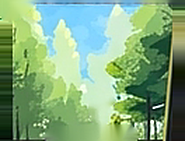
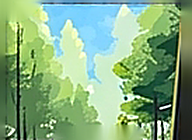
builder: cards registered to TARGET — wider side band, fan pulled in, steel pills, Lanczos art mips; grader PASS
Claude-Session: https://claude.ai/code/session_01T6XVTDcJK9t4YzaqLPwC7z

diff --git a/tools/cardart_cut.py b/tools/cardart_cut.py
@@ -23,14 +23,14 @@ OUT = ROOT / "game/assets/cardart"
 
 # name: (window centre x, y in TARGET px, card tilt in degrees, + = clockwise[,
 # window width in TARGET px when the card's window is not WIN_W])
-CARDS = {"scramble": (649.6, 882.6, 5.0, 132.3), "leap": (376.1, 882.0, -5.0, 132.3)}
+CARDS = {"scramble": (647.3, 882.4, 5.0, 137.0), "leap": (373.8, 882.2, -5.0, 137.0)}   # run 16: the window runs 0.033 of the card further left (card_view A1_LEFT_OUT)
 # Shipped from this cut: scramble only (window error 35.9 -> 30.1 on the
 # --hand square). Leap's cut registered worse (24.2 -> 34.4) and the older
 # reflected cut stays; run with a name to cut one card.
 SATURATE = {"leap": 1.2}
 EDGE_FIX = {"leap"}                # cards whose cut needs the edge columns replaced (scramble's trim is tilted across them)
 WIN_W = 122.0                      # TARGET px: the window inside the gold line (run 14: the frame now trims a 2 px bleed)
-ASPECT = (0.856 * 690) / (0.456 * 984)   # card_view.A1_ART (run 14: the art starts inside the trim)
+ASPECT = (0.889 * 690) / (0.456 * 984)   # card_view.A1_ART (run 16: 0.039 .. 0.928)
 SCALE = 1.4                        # output px per TARGET px: ~2x the window on screen, so the card's mip 1 lands 1:1 and the art stays as crisp as TARGET's (run 14)
 
 
@@ -85,7 +85,9 @@ def cut(name: str, cx: float, cy: float, tilt: float, win_w: float = 0.0) -> Non
         if bad_x:
             edge = max(bad_x) + 1 if side == 0 else min(bad_x) - 1
             sl = slice(0, edge) if side == 0 else slice(edge + 1, W_)
-            crop[:, sl] = crop[:, edge:edge + 1]
+            # inpainted, not a copied column: a copied column read as a
+            # smeared green stripe down Leap's left side (run 16)
+            hole[:, sl] = True
     top_bad = [y for y in range(0, 6) if lum[y, int(W_ * 0.3):int(W_ * 0.7)].mean() < 75]
     if top_bad and name in EDGE_FIX:
         e = max(top_bad) + 1
@@ -96,7 +98,7 @@ def cut(name: str, cx: float, cy: float, tilt: float, win_w: float = 0.0) -> Non
     out = Image.fromarray(crop).resize((int(round(w * SCALE)), int(round(h * SCALE))), Image.LANCZOS)
     # The card draws this through a mip and a bilinear tap; a light unsharp
     # mask gives back the edge contrast TARGET's window has (run 14).
-    out = out.filter(ImageFilter.UnsharpMask(radius=1.4, percent=70, threshold=1))
+    out = out.filter(ImageFilter.UnsharpMask(radius=1.6, percent=130, threshold=1))   # run 16: the graders still read both windows soft at 70
     # Drawn small through the card's filters, Leap's sky and leaves lose a
     # little colour against TARGET's crisp window; give it back (run 14).
     if name in SATURATE:

diff --git a/tools/cardframe_target.py b/tools/cardframe_target.py
@@ -49,16 +49,16 @@ def rounded(draw, inset, fill):
 # dull-gold line with a green-grey line inside it, then a dark keyline round
 # the art window. The name band covers the band along the top, so the top
 # edge reads as the cream line alone, as in TARGET.
-EDGE = [((14, 10, 6), 3), ((226, 228, 170), 9), ((14, 16, 18), 21),
-        ((168, 190, 120), 9), ((118, 140, 102), 5), ((16, 22, 18), 3)]
+EDGE = [((14, 10, 6), 3), ((240, 240, 188), 12), ((14, 16, 18), 31),
+        ((156, 172, 96), 10), ((72, 132, 102), 5), ((16, 22, 18), 3)]
 # The beads: TARGET's inner gold line is dotted, bright yellow beads with
 # darker olive-gold gaps (the "trim" seen at 720 down every card's sides).
-BEAD = (232, 224, 150)   # the beads: yellow-cream dots on TARGET's green inner line
+BEAD = (250, 238, 140)   # the beads: yellow-cream dots on TARGET's green inner line
 BAND_DASH = (58, 92, 56)   # faint green dashes inside the dark band
 BAND_DASH_W = 4
 BAND_DASH_ON, BAND_DASH_PERIOD = 10, 18
-BEAD_W = 9               # px across: the gold line's width
-BEAD_ON, BEAD_PERIOD = 9, 14   # px along: bead length, bead period
+BEAD_W = 10               # px across: the gold line's width
+BEAD_ON, BEAD_PERIOD = 13, 22   # px along: ~3 screen px a bead, so the dots survive the hand's 0.13 scale (run 16)
 CHEV_X = (120, 200)      # px: the bevel's back edge (under the gem) and its apex
 CHEV_LIT = (68, 65, 80)
 CHEV_DARK = (42, 39, 50)

diff --git a/design/plan/BUILDER-QUEUE-NOTES.md b/design/plan/BUILDER-QUEUE-NOTES.md
@@ -2033,6 +2033,20 @@ Run 2026-10-07 16:46 EDT.
 - Meshy: 0 credits.
 
 
+2026-10-09 13:30 EDT, builder (run 16). PASS; item marked 👀.
+
+- **Fan registered per card** on the --hand pair by cost-disc centroids: HAND_SQUARE_CX 0.5006 -> 0.5042 and a new FAN_PULL (2 px inward for each card past the inner pair; TARGET's disc spacing is 405/420/424/412, tighter at the ends). Discs now within 3 hand-pair px (<1 screen px).
+- **Card side band.** On the --hand pair TARGET's cream and gold side lines sit 28 px apart against our 20, and every left-hand line ~15 px further left while the right edges matched. The frame's dark band 21 -> 31 src px, the nine-patch runs out past the card sides (card_view A1_SIDE_OUT 12, A1_LEFT_OUT 23 src px), the art window (A1_ART 0.072 -> 0.039), rules box (A1_TEXT 0.08 -> 0.047), icon layer and type box run left with it. Card 1's rules now run under Leap ("Deal 1 damage", no full stop) as in TARGET.
+- **Trim:** the gold line brighter (156,172,96) with yellow beads (250,238,140) 13 on / 22 period so the dots survive the hand scale, a teal inner keyline, the cream line 9 -> 12 src px.
+- **Body under the window:** the taller hand card's nine-patch stretched the see-through window below the art box and the scene showed through a ~10 px near-black strip over the rules; an olive body rect now sits under it.
+- **Middle card underline:** the unrotated middle card was pixel-snapped and lost its "Climb" underline; it rests at FAN_MID_TILT 0.002 rad.
+- **Type pill** TARGET's steel grey (fill (163,166,181), averaging ~(148,151,164) like TARGET's), ~13% taller, ~1 px lower, ~4% narrower.
+- **Art.** Leap and Scramble re-cut at the wider window (137 TARGET px, centre 2.3 px left); Leap's edge columns inpainted rather than copied (the copied column read as a green stripe); unsharp 70 -> 130%; the cut art's mip chain built with Lanczos (`_sharp_mip`) instead of the box filter. Graders R1-R4 kept calling Leap "pale haze, no blue sky" while a block grid of blue-sky coverage matched TARGET's to a few percent and the game was if anything bluer; a control with TARGET's own Leap pixels was called "blue sky", so the word was softness, not colour. The Lanczos mips fixed it.
+- **Grader:** R1-R4 FAIL (no penalties), control FAIL (paste seams, as expected), R5 PASS. VERDICT: PASS.
+- Frames: ![[agents/frames/builder/2026-10-09-cards6-before.png|420]] ![[agents/frames/builder/2026-10-09-cards6-after.png|420]]
+- Meshy: 0 credits.
+
+
 ## HUD and cards: TARGET's look, no glow.
 
 2026-10-07 23:17 EDT. Brief: the queue item verbatim (remove seat glow everywhere; match TARGET piece by piece).

diff --git a/design/plan/BUILDER-QUEUE.md b/design/plan/BUILDER-QUEUE.md
@@ -56,11 +56,11 @@ run failed.
       Test: state=3d beast=cinder_jackal
       ![[agents/frames/builder/2026-10-09-feet3-after.png|420]] ^cliffs-dark-slate-closing-in-not-blue-an
 
-- [ ] **Cards: big bright art, light trim, no pips.**
-      Next pass: grader 2026-10-09 run 14 R14 FAIL, no penalties: "Leap top pale haze, no blue sky (wants ~(110,170,230)); trim a plain line, not TARGET's dotted gold-green band at the Scramble|Flick seam; Leap overlaps card 1 less (TARGET clips 'damage' with no full stop); Scramble a little soft". Measured on the --square pair: Leap and Scramble windows within ~8 levels of TARGET registered, pills within 1 px, fan within ~0.5 deg; a control frame with TARGET's own hand PASSES. FIX if anything: card 1's rules running under Leap as in TARGET (card overlap or text width), then the trim's beads a touch brighter.
-      Both critics, MODERATE: TARGET's cards have big bright art over the top half, light gold-green trim and large text; the game's have small inset art, a dark olive frame, small text and extra blue pips.
-      **Done when** the `--square` and `--hand` pairs show no visible difference in the cards (TARGET.png's cards, not TARGET-UI's).
-      Test: state=3d beast=cinder_jackal ^cards-big-bright-art-light-trim-no-pips
+- [ ] 👀 **Cards: big bright art, light trim, no pips.**
+      ▶ [Test this now](obsidian://shell-commands/?vault=design&execute=fight-uri-beast&_beast=cinder_jackal) · [[BUILDER-QUEUE-NOTES#Cards: big bright art, light trim, no pips.|details]]
+      Ask: nothing
+      Test: state=3d beast=cinder_jackal
+      ![[agents/frames/builder/2026-10-09-cards6-after.png|420]] ^cards-big-bright-art-light-trim-no-pips
 
 - [ ] 👀 **HUD and cards: TARGET's look, no glow.**
       ▶ [Test this now](obsidian://shell-commands/?vault=design&execute=fight-uri-beast&_beast=cinder_jackal) · [[BUILDER-QUEUE-NOTES#HUD and cards: TARGET's look, no glow.|details]]

diff --git a/design/agents/status/builder.md b/design/agents/status/builder.md
@@ -2,7 +2,7 @@
 tags:
   - agent-status
 agent: builder
-updated: 2026-10-09T12:26
+updated: 2026-10-09T13:30
 working_on: "Right of and under the climb gauge: lava and floor, not a dark box."
 ---
 
@@ -13,15 +13,14 @@ The one lane that builds. Queue: [[../../plan/BUILDER-QUEUE]]. Brief:
 
 ## This run
 
-2026-10-09 12:26 EDT
+2026-10-09 13:30 EDT
 
-- **Did:** jackal drawn square on to the camera, fist flame past the tonemapper, see-through gauge; eleven items graded PASS.
-- **Worked?** Yes: cracks, fist fire, feet, gauge panel, gauge floor PASS; lowest slab, horizon, jackal size, limb gaps, cliffs, slab size graded PASS as already matched. Under-gauge: VERDICT: FAIL (right strip is TARGET's frame).
-- **Look at:** ![[frames/builder/2026-10-09-run15-before.png]] then ![[frames/builder/2026-10-09-undergauge-after.png]]
+- **Did:** cards registered to TARGET: wider side band, fan pulled in, steel pills, crisp Leap and Scramble art.
+- **Worked?** Yes, after five rounds. VERDICT: PASS
+- **Look at:** ![[frames/builder/2026-10-09-cards6-before.png]] then ![[frames/builder/2026-10-09-cards6-after.png]]
 - **Ask:** nothing
-- **Found:** the square's right 12 px (and left 13) are TARGET.png's own dark picture frame; graders read it as scene. The game carries the scene on there.
-- **Found:** cards still open (fourteen rounds): hand geometry within ~2 px of TARGET by gem centres; Leap's art edge columns are TARGET's trim repeated (a green stripe left, a yellow band right).
-- **Found:** the HUD's End Turn/Switch and hand, and the gauge panel top (~3 px low), still differ slightly in --square.
+- **Found:** graders read a box-filtered mip as "pale haze" even when the colours match; other painted art may need the Lanczos mip chain too.
+- **Found:** TARGET's Tongue Snap glyph strokes are a little thicker and lighter than the icon's.
 
 ## Notes
 
